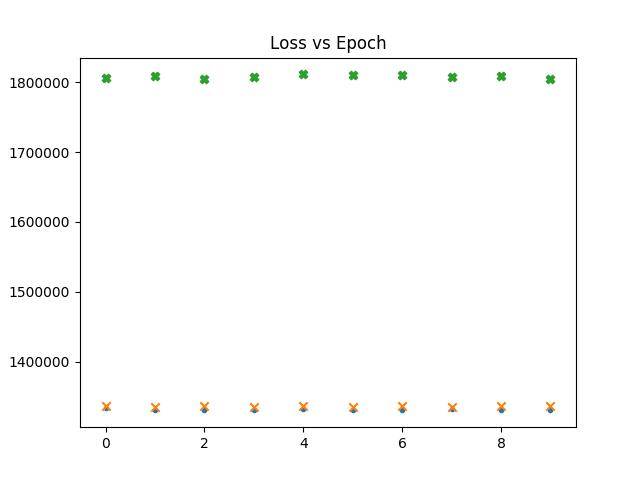
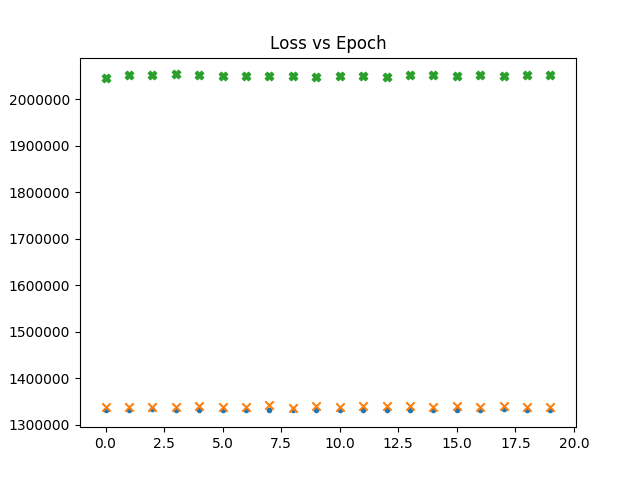
Scaling the power spectra

diff --git a/code.py b/code.py
@@ -2,9 +2,17 @@ import tensorflow.contrib.layers as lays
 from map_gen import *
 
 batch_size = 500  # Number of samples in each batch
-epoch_num = 10     # Number of epochs to train the network
-lr = 0.001        # Learning rate
+epoch_num = 20     # Number of epochs to train the network
+lr = 0.01        # Learning rate
 xres,yres,_ = get_res()
+print(xres,yres,xres*yres)
+def fcc_autoencoder(inputs):
+    net = lays.fully_connected(inputs,500)
+    net = lays.fully_connected(net,100)
+    net = lays.fully_connected(net,500)
+    net = lays.fully_connected(net,xres*yres)
+    return net
+
 
 def autoencoder(inputs):
     # encoder
@@ -41,36 +49,40 @@ init = tf.global_variables_initializer()
 
 
 # calculate the number of batches per epoch
-batch_per_ep = 10
+batch_per_ep = 100
 plotdata = []
 plotdata2 = []
 plotdata3 = []
+data = []
+for batch_n in range(batch_per_ep):
+    data.append(give_skymap(batch_size))
+
 with tf.Session() as sess:
     sess.run(init)
     for ep in range(epoch_num):  # epochs loop
         for batch_n in range(batch_per_ep):  # batches loop
-            batch_img = give_skymap(batch_size)
+            batch_img = data[batch_n]
             _, c = sess.run([train_op, loss], feed_dict={ae_inputs: batch_img})
-            print('Epoch: {} - cost= {:.5f}'.format((ep + 1), c))
+        print('Epoch: {} - cost= {:.5f}'.format((ep + 1), c))
 
     # test the trained network with good data
         batch_img = give_skymap(batch_size)
         theloss = sess.run([loss], feed_dict={ae_inputs: batch_img})[0]
         plotdata.append([theloss,ep]) 
    # test with bad data
-        batch_img = give_badskymap(batch_size)
-        theloss = sess.run([loss], feed_dict={ae_inputs: batch_img})[0]
-        plotdata2.append([theloss,ep]) 
-
-        #batch_img = give_badskymap(batch_size,fnl=1e-3)
+        #batch_img = give_badskymap(batch_size)
         #theloss = sess.run([loss], feed_dict={ae_inputs: batch_img})[0]
-        #plotdata3.append([theloss,ep]) 
+        #plotdata2.append([theloss,ep]) 
+
+        batch_img = give_badskymap(batch_size,fnl=1e-3)
+        theloss = sess.run([loss], feed_dict={ae_inputs: batch_img})[0]
+        plotdata3.append([theloss,ep]) 
 plotdata = np.array(plotdata)
-plotdata2 = np.array(plotdata2)
-#plotdata3 = np.array(plotdata3)
+#plotdata2 = np.array(plotdata2)
+plotdata3 = np.array(plotdata3)
 import matplotlib.pyplot as plt
 plt.scatter(plotdata.T[1],plotdata.T[0],marker=".")
-plt.scatter(plotdata2.T[1],plotdata2.T[0],marker="x")
-#plt.scatter(plotdata3.T[1],plotdata3.T[0],marker="X")
+#plt.scatter(plotdata2.T[1],plotdata2.T[0],marker="x")
+plt.scatter(plotdata3.T[1],plotdata3.T[0],marker="X")
 plt.title('Loss vs Epoch')
-plt.savefig('loss2.png')
+plt.savefig('loss_scaling.png')

diff --git a/map_gen.py b/map_gen.py
@@ -1,9 +1,10 @@
+#! /usr/bin/env python
 import numpy as np
 import matplotlib.pyplot as plt
 from essentials import *
 import healpy as hp
 NSIDE = 32
-def give_skymap(batch):
+def give_skymap(batch,fnl=1e-3):
     with open('./cmb-power-spectrum.txt') as csvfile:
         spectra = filereader(csvfile)
         l = spectra.T[0]
@@ -13,10 +14,14 @@ def give_skymap(batch):
         bb = spectra.T[4]
         pp = spectra.T[5]
     
+    skymap = hp.synfast(tt,NSIDE,new=True,verbose=False)
+    sqmap = np.square(skymap)
+    skymap = skymap + (fnl/2.725)*(sqmap - np.full_like(skymap,np.mean(skymap)**2))
+    ttprime = np.array(hp.anafast(skymap)) 
     batch_map=[]
     k = 0
     for _ in range(batch):
-        skymap = hp.synfast(tt,NSIDE,new=True,verbose=False)
+        skymap = hp.synfast(ttprime,NSIDE,new=True,verbose=False)
         skymap.resize(split(len(skymap)))
         batch_map.append(skymap) 
 
@@ -37,7 +42,9 @@ def give_badskymap(batch,fnl=1e-4):
     for _ in range(batch):
         skymap = np.array(hp.synfast(tt,NSIDE,new=True,verbose=False))
         sqmap = np.square(skymap)
-        skymap = skymap + (fnl/2.725)*(sqmap - np.full_like(skymap,np.mean(sqmap)))
+        skymap = skymap + (fnl/2.725)*(sqmap - np.full_like(skymap,np.mean(skymap)**2))
+        #ttprime = np.array(hp.anafast(skymap,lmax=2506)) 
+        #scale = np.dot(tt , ttprime)/(np.dot(tt , tt))
         skymap.resize(split(len(skymap)))
         batch_map.append(skymap) 
 
@@ -45,4 +52,5 @@ def give_badskymap(batch,fnl=1e-4):
 
 def get_res():
     return split(hp.nside2npix(NSIDE))
-
+if __name__ == "__main__":
+    give_badskymap(2)

diff --git a/README.md b/README.md
@@ -10,7 +10,11 @@ the gaussian maps. a cross for fnl = 1e-4. Thicker cross for fnl = 1e-3.
 ![loss2](loss2.png)
 ## Loss for fnl = 1e-3 compared to gaussian and fnl=1e-4
 ![loss](loss.png)
-
+## Loss for fnl = 1e-3 compared to gaussian after normalizing
+In the following plot the gaussian maps were generated after 
+calculating the power spectra of the non-gaussian maps, So that we
+can make sure that the maps have the same power spectra
+![loss_scaling](loss_scaling.png)
 What is interesting is that though the network never seems to
 learn the loss is already high for non gaussian maps.
 
